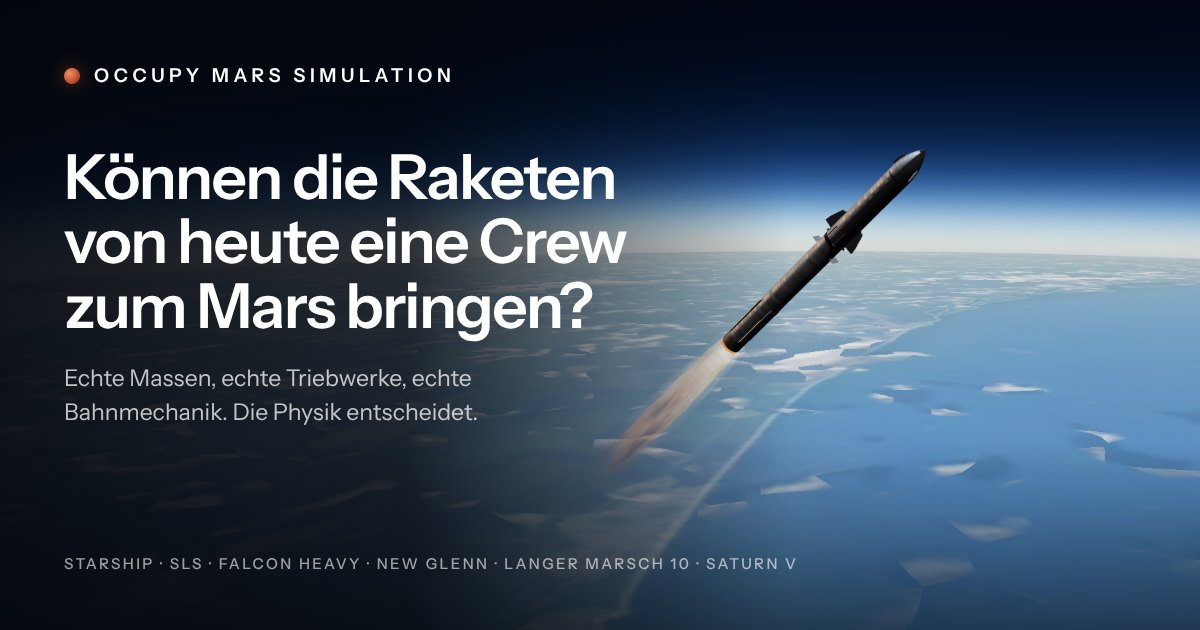
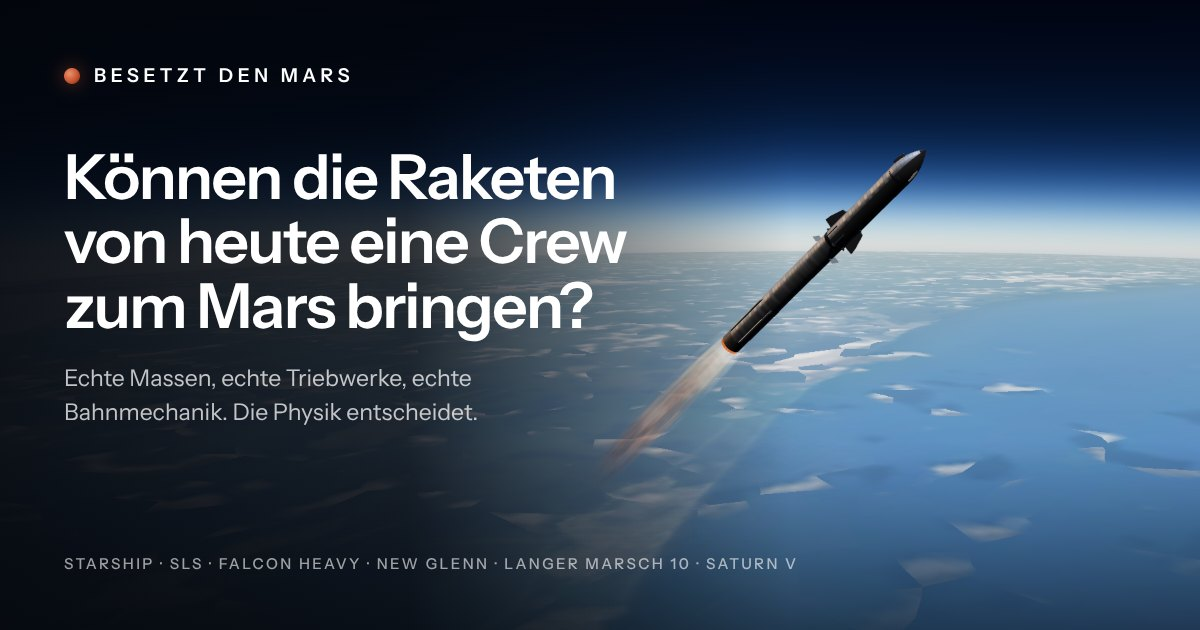
The site's name in every language
Occupy Mars Simulation · Mars'ı İşgal Et Simülasyonu · Simulación Ocupa Marte · Simulation
Occupons Mars · Besetzt den Mars · मंगल पर बसो सिमुलेशन · 占领火星模拟 — `meta.siteName` per
language: the wordmark (no longer marked English, so Turkish capitals and the untracked scripts
come out right), the tab title, og:site_name, the share sheet's title, the feedback email's
subject and the link previews (re-rendered); the opening screen's short name likewise.

Claude-Session: https://claude.ai/code/session_01ADPwp3DXUkDhTtCQNMryof

Changed region(s): [[0.0617, 0.0905, 0.37, 0.1508], [0.5242, 0.6032, 0.5858, 0.6937]]

diff --git a/scripts/og-image.ts b/scripts/og-image.ts
@@ -60,9 +60,9 @@ const browser = await chromium.launch({ executablePath: '/opt/pw-browsers/chromi
 const W = 1640
 const H = 630
 const shot = await browser.newPage({ viewport: { width: W, height: H }, deviceScaleFactor: 1.5 })
-await shot.goto(`http://localhost:${port}/en/?vehicle=starship-v3&t=${t}&still=1&clean=1&quality=high`)
+await shot.goto(`http://localhost:${port}/en/?vehicle=starship-v3&t=${t}&still=1&clean=1&quality=high&prewarm=0`)
 await shot.waitForTimeout(16000)
-const still = (await shot.screenshot({ type: 'png', clip: { x: 0, y: 0, width: 1200, height: H } })).toString('base64')
+const still = (await shot.screenshot({ type: 'png', clip: { x: 0, y: 0, width: 1200, height: H }, timeout: 180_000 })).toString('base64')
 await shot.close()
 
 // 2. the cards. Instrument Sans for Latin, Noto Sans Devanagari for हिन्दी; Han from the system (Noto Sans CJK)
@@ -95,7 +95,7 @@ body { width: 1200px; height: 630px; overflow: hidden; font-family: 'IS', 'Deva'
   linear-gradient(90deg, rgba(2,5,11,0.92) 0%, rgba(2,5,11,0.8) 34%, rgba(2,5,11,0.25) 56%, rgba(2,5,11,0) 66%),
   linear-gradient(0deg, rgba(2,5,11,0.6) 0%, rgba(2,5,11,0) 30%); }
 .box { position: absolute; left: 64px; top: 64px; width: 580px; }
-.mark { display: flex; align-items: center; gap: 14px; font-size: 19px; font-weight: 600; letter-spacing: 0.24em; text-transform: uppercase; }
+.mark { display: flex; align-items: center; gap: 14px; font-size: 19px; font-weight: 600; letter-spacing: ${caps ? '0.24em' : '0.02em'}; text-transform: uppercase; }
 .dot { width: 16px; height: 16px; border-radius: 50%; background: radial-gradient(circle at 35% 35%, #e8926f, #c8552f 55%, #6a2514); box-shadow: 0 0 18px rgba(200,85,47,0.6); }
 h1 { margin-top: 58px; font-size: 62px; line-height: ${caps ? 1.04 : 1.25}; font-weight: 600; letter-spacing: ${caps ? '-0.025em' : '0'}; }
 p { margin-top: 24px; font-size: 23px; line-height: 1.45; color: rgba(255,255,255,0.74); font-weight: 400; max-width: ${caps ? '30ch' : '24em'}; }
@@ -103,7 +103,7 @@ p { margin-top: 24px; font-size: 23px; line-height: 1.45; color: rgba(255,255,25
 </style></head><body>
 <div class="bg"></div><div class="shade"></div>
 <div class="box">
-  <div class="mark" lang="en"><span class="dot"></span>Occupy Mars Simulation</div>
+  <div class="mark"><span class="dot"></span>${esc(U.meta.siteName)}</div>
   <h1>${esc(U.share.question)}</h1>
   <p>${esc(U.meta.cardText)}</p>
 </div>

diff --git a/src/i18n/hi/meta.ts b/src/i18n/hi/meta.ts
@@ -1,7 +1,8 @@
 /** The page's own words (title, description, link preview) — hi (translated from en/meta.ts). No imports: the build reads it. */
 export const META = {
+  siteName: 'मंगल पर बसो सिमुलेशन',
   /** the browser tab */
-  title: 'Occupy Mars Simulation — क्या आज के रॉकेट किसी चालक दल को मंगल तक पहुंचा सकते हैं?',
+  title: 'मंगल पर बसो सिमुलेशन — क्या आज के रॉकेट किसी चालक दल को मंगल तक पहुंचा सकते हैं?',
   description: 'आज के सबसे उन्नत रॉकेटों में से एक चुनें, उसमें चालक दल बिठाएं और देखें कि भौतिकी का सिमुलेशन क्या तय करता है — वह मंगल तक पहुंचेगा या नहीं: असली द्रव्यमान, असली इंजन, असली कक्षीय यांत्रिकी, प्रवेश के समय की असली गर्मी।',
   shareDescription: 'एक रॉकेट चुनें, उसमें चालक दल बिठाएं और भौतिकी को तय करने दें कि वह मंगल तक पहुंचेगा या नहीं — और सबसे पहले क्या टूटेगा। असली द्रव्यमान, असली इंजन, असली कक्षीय यांत्रिकी।',
   imageAlt: 'अंतरिक्ष की दहलीज़ पर फ्लोरिडा तट के ऊपर चढ़ता स्टारशिप, और शीर्षक: क्या आज के रॉकेट किसी चालक दल को मंगल तक पहुंचा सकते हैं?',

diff --git a/src/i18n/hi/ui.ts b/src/i18n/hi/ui.ts
@@ -31,7 +31,7 @@ export const UI: UiCatalog = {
   },
   intro: {
     /** above the title of the opening screen (the site's name, usually left as is) */
-    brand: 'Occupy Mars',
+    brand: 'मंगल पर बसो',
     title: 'मंगल पर शहर क्यों?',
     text: [
       'अब तक जितने भी जीव अस्तित्व में आए हैं, वे सब एक ही ग्रह पर रहे हैं। एक क्षुद्रग्रह, एक महाज्वालामुखी, एक बुरी सदी — और पूरी कहानी खत्म। दूसरी दुनिया जीवन के लिए अब तक की पहली असली बीमा पॉलिसी है।',
@@ -373,7 +373,7 @@ export const UI: UiCatalog = {
     write: 'ईमेल लिखें',
     copy: 'पता कॉपी करें',
     copied: 'पता कॉपी हो गया',
-    subject: 'Occupy Mars Simulation — राय',
+    subject: 'मंगल पर बसो सिमुलेशन — राय',
     close: 'बंद करें',
   },
   wiki: {

diff --git a/src/i18n/fr/meta.ts b/src/i18n/fr/meta.ts
@@ -1,7 +1,8 @@
 /** The page's own words (title, description, link preview) — fr (translated from en/meta.ts). No imports: the build reads it. */
 export const META = {
+  siteName: 'Simulation Occupons Mars',
   /** the browser tab */
-  title: "Occupy Mars Simulation — les fusées d'aujourd'hui peuvent-elles emmener un équipage sur Mars ?",
+  title: "Simulation Occupons Mars — les fusées d'aujourd'hui peuvent-elles emmener un équipage sur Mars ?",
   description: "Choisissez l'une des fusées les plus avancées d'aujourd'hui, donnez-lui un équipage et regardez une simulation physique décider si elle atteint Mars : masses réelles, moteurs réels, vraie mécanique orbitale, vrai échauffement à l'entrée.",
   shareDescription: 'Choisissez une fusée, donnez-lui un équipage et laissez la physique décider si elle atteint Mars — et ce qui lâche en premier. Masses réelles, moteurs réels, vraie mécanique orbitale.',
   imageAlt: "Starship s'élevant au-dessus de la côte de Floride, aux portes de l'espace, sous le titre : Les fusées d'aujourd'hui peuvent-elles emmener un équipage sur Mars ?",

diff --git a/src/i18n/tr/meta.ts b/src/i18n/tr/meta.ts
@@ -1,7 +1,8 @@
 /** The page's own words (title, description, link preview) — tr (translated from en/meta.ts). No imports: the build reads it. */
 export const META = {
+  siteName: "Mars'ı İşgal Et Simülasyonu",
   /** the browser tab */
-  title: "Occupy Mars Simulation — bugünün roketleri Mars'a mürettebat taşıyabilir mi?",
+  title: "Mars'ı İşgal Et Simülasyonu — bugünün roketleri Mars'a mürettebat taşıyabilir mi?",
   description: "Bugünün en gelişmiş roketlerinden birini seç, mürettebatını bindir ve Mars'a varıp varamayacağına bir fizik simülasyonunun karar vermesini izle: gerçek kütleler, gerçek motorlar, gerçek yörünge mekaniği, atmosfere girişte gerçek ısınma.",
   shareDescription: "Bir roket seç, mürettebatını bindir; Mars'a varıp varamayacağına — ve önce neyin bozulacağına — fizik karar versin. Gerçek kütleler, gerçek motorlar, gerçek yörünge mekaniği.",
   imageAlt: "Florida kıyısının üzerinde, uzayın eşiğinde tırmanan Starship ve başlık: Bugünün roketleri Mars'a mürettebat taşıyabilir mi?",

diff --git a/src/i18n/de/meta.ts b/src/i18n/de/meta.ts
@@ -1,7 +1,8 @@
 /** The page's own words (title, description, link preview) — de (translated from en/meta.ts). No imports: the build reads it. */
 export const META = {
+  siteName: 'Besetzt den Mars',
   /** the browser tab */
-  title: 'Occupy Mars Simulation — können die Raketen von heute eine Crew zum Mars bringen?',
+  title: 'Besetzt den Mars: Können die Raketen von heute eine Crew zum Mars bringen?',
   description: 'Wähle eine der fortschrittlichsten Raketen von heute, gib ihr eine Crew und sieh zu, wie eine Physiksimulation entscheidet, ob sie den Mars erreicht: echte Massen, echte Triebwerke, echte Bahnmechanik, echte Aufheizung beim Eintritt.',
   shareDescription: 'Wähle eine Rakete, gib ihr eine Crew und lass die Physik entscheiden, ob sie den Mars erreicht – und was zuerst versagt. Echte Massen, echte Triebwerke, echte Bahnmechanik.',
   imageAlt: 'Starship steigt über der Küste Floridas an den Rand des Weltraums, darüber der Titel: Können die Raketen von heute eine Crew zum Mars bringen?',

diff --git a/src/i18n/es/meta.ts b/src/i18n/es/meta.ts
@@ -1,7 +1,8 @@
 /** The page's own words (title, description, link preview) — es (translated from en/meta.ts). No imports: the build reads it. */
 export const META = {
+  siteName: 'Simulación Ocupa Marte',
   /** the browser tab */
-  title: 'Occupy Mars Simulation — ¿pueden los cohetes actuales llevar una tripulación a Marte?',
+  title: 'Simulación Ocupa Marte — ¿pueden los cohetes actuales llevar una tripulación a Marte?',
   description: 'Elige uno de los cohetes más avanzados de hoy, dale una tripulación y mira cómo una simulación física decide si llega a Marte: masas reales, motores reales, mecánica orbital real, calentamiento real en la entrada.',
   shareDescription: 'Elige un cohete, dale una tripulación y deja que la física decida si llega a Marte y qué falla primero. Masas reales, motores reales, mecánica orbital real.',
   imageAlt: 'Starship ascendiendo sobre la costa de Florida, al borde del espacio, bajo el título: ¿Pueden los cohetes actuales llevar una tripulación a Marte?',

diff --git a/src/i18n/zh/meta.ts b/src/i18n/zh/meta.ts
@@ -1,7 +1,8 @@
 /** The page's own words (title, description, link preview) — zh (translated from en/meta.ts). No imports: the build reads it. */
 export const META = {
+  siteName: '占领火星模拟',
   /** the browser tab */
-  title: 'Occupy Mars Simulation——今天的火箭能把乘组送上火星吗？',
+  title: '占领火星模拟——今天的火箭能把乘组送上火星吗？',
   description: '从当今最先进的火箭中选一枚，配上乘组，看物理模拟判定它能否抵达火星：真实的质量、真实的发动机、真实的轨道力学、真实的进入加热。',
   shareDescription: '选一枚火箭，配上乘组，让物理来判定它能否抵达火星——以及什么会先出问题。真实的质量、真实的发动机、真实的轨道力学。',
   imageAlt: '星舰在太空边缘飞越佛罗里达海岸上空，标题：今天的火箭能把乘组送上火星吗？',

diff --git a/src/i18n/de/ui.ts b/src/i18n/de/ui.ts
@@ -31,7 +31,7 @@ export const UI: UiCatalog = {
   },
   intro: {
     /** above the title of the opening screen (the site's name, usually left as is) */
-    brand: 'Occupy Mars',
+    brand: 'Besetzt den Mars',
     title: 'Warum eine Stadt auf dem Mars?',
     text: [
       'Jedes Lebewesen, das je existiert hat, hat auf einem einzigen Planeten gelebt. Ein Asteroid, ein Supervulkan, ein schlechtes Jahrhundert — und die ganze Geschichte ist zu Ende. Eine zweite Welt ist die erste echte Versicherung, die dem Leben je angeboten wurde.',
@@ -373,7 +373,7 @@ export const UI: UiCatalog = {
     write: 'E-Mail schreiben',
     copy: 'Adresse kopieren',
     copied: 'Adresse kopiert',
-    subject: 'Occupy Mars Simulation — Feedback',
+    subject: 'Besetzt den Mars – Feedback',
     close: 'Schließen',
   },
   wiki: {

diff --git a/src/i18n/tr/ui.ts b/src/i18n/tr/ui.ts
@@ -31,7 +31,7 @@ export const UI: UiCatalog = {
   },
   intro: {
     /** above the title of the opening screen (the site's name, usually left as is) */
-    brand: 'Occupy Mars',
+    brand: "Mars'ı İşgal Et",
     title: "Neden Mars'ta bir şehir?",
     text: [
       'Bugüne kadar var olmuş her canlı tek bir gezegende yaşadı. Bir asteroit, bir süper yanardağ, kötü geçen tek bir yüzyıl — ve bütün hikâye biter. İkinci bir dünya, hayata şimdiye dek sunulmuş ilk gerçek sigorta poliçesi olur.',
@@ -373,7 +373,7 @@ export const UI: UiCatalog = {
     write: 'E-posta yaz',
     copy: 'Adresi kopyala',
     copied: 'Adres kopyalandı',
-    subject: 'Occupy Mars Simulation — geri bildirim',
+    subject: "Mars'ı İşgal Et Simülasyonu — geri bildirim",
     close: 'Kapat',
   },
   wiki: {

diff --git a/src/i18n/fr/ui.ts b/src/i18n/fr/ui.ts
@@ -31,7 +31,7 @@ export const UI: UiCatalog = {
   },
   intro: {
     /** above the title of the opening screen (the site's name, usually left as is) */
-    brand: 'Occupy Mars',
+    brand: 'Occupons Mars',
     title: 'Pourquoi une ville sur Mars ?',
     text: [
       "Tout être vivant ayant jamais existé a vécu sur une seule planète. Un astéroïde, un supervolcan, un mauvais siècle — et toute l'histoire s'arrête. Un second monde est la première véritable assurance que la vie se soit jamais vu offrir.",
@@ -373,7 +373,7 @@ export const UI: UiCatalog = {
     write: 'Écrire un e-mail',
     copy: "Copier l'adresse",
     copied: 'Adresse copiée',
-    subject: 'Occupy Mars Simulation — avis',
+    subject: 'Simulation Occupons Mars — avis',
     close: 'Fermer',
   },
   wiki: {

diff --git a/src/i18n/es/ui.ts b/src/i18n/es/ui.ts
@@ -31,7 +31,7 @@ export const UI: UiCatalog = {
   },
   intro: {
     /** above the title of the opening screen (the site's name, usually left as is) */
-    brand: 'Occupy Mars',
+    brand: 'Ocupa Marte',
     title: '¿Por qué una ciudad en Marte?',
     text: [
       'Todo ser vivo que ha existido ha vivido en un único planeta. Un asteroide, un supervolcán, un siglo aciago… y toda la historia se acaba. Un segundo mundo es el primer seguro de verdad que se le ha ofrecido jamás a la vida.',
@@ -373,7 +373,7 @@ export const UI: UiCatalog = {
     write: 'Escribir un correo',
     copy: 'Copiar la dirección',
     copied: 'Dirección copiada',
-    subject: 'Occupy Mars Simulation — opinión',
+    subject: 'Simulación Ocupa Marte — opinión',
     close: 'Cerrar',
   },
   wiki: {
